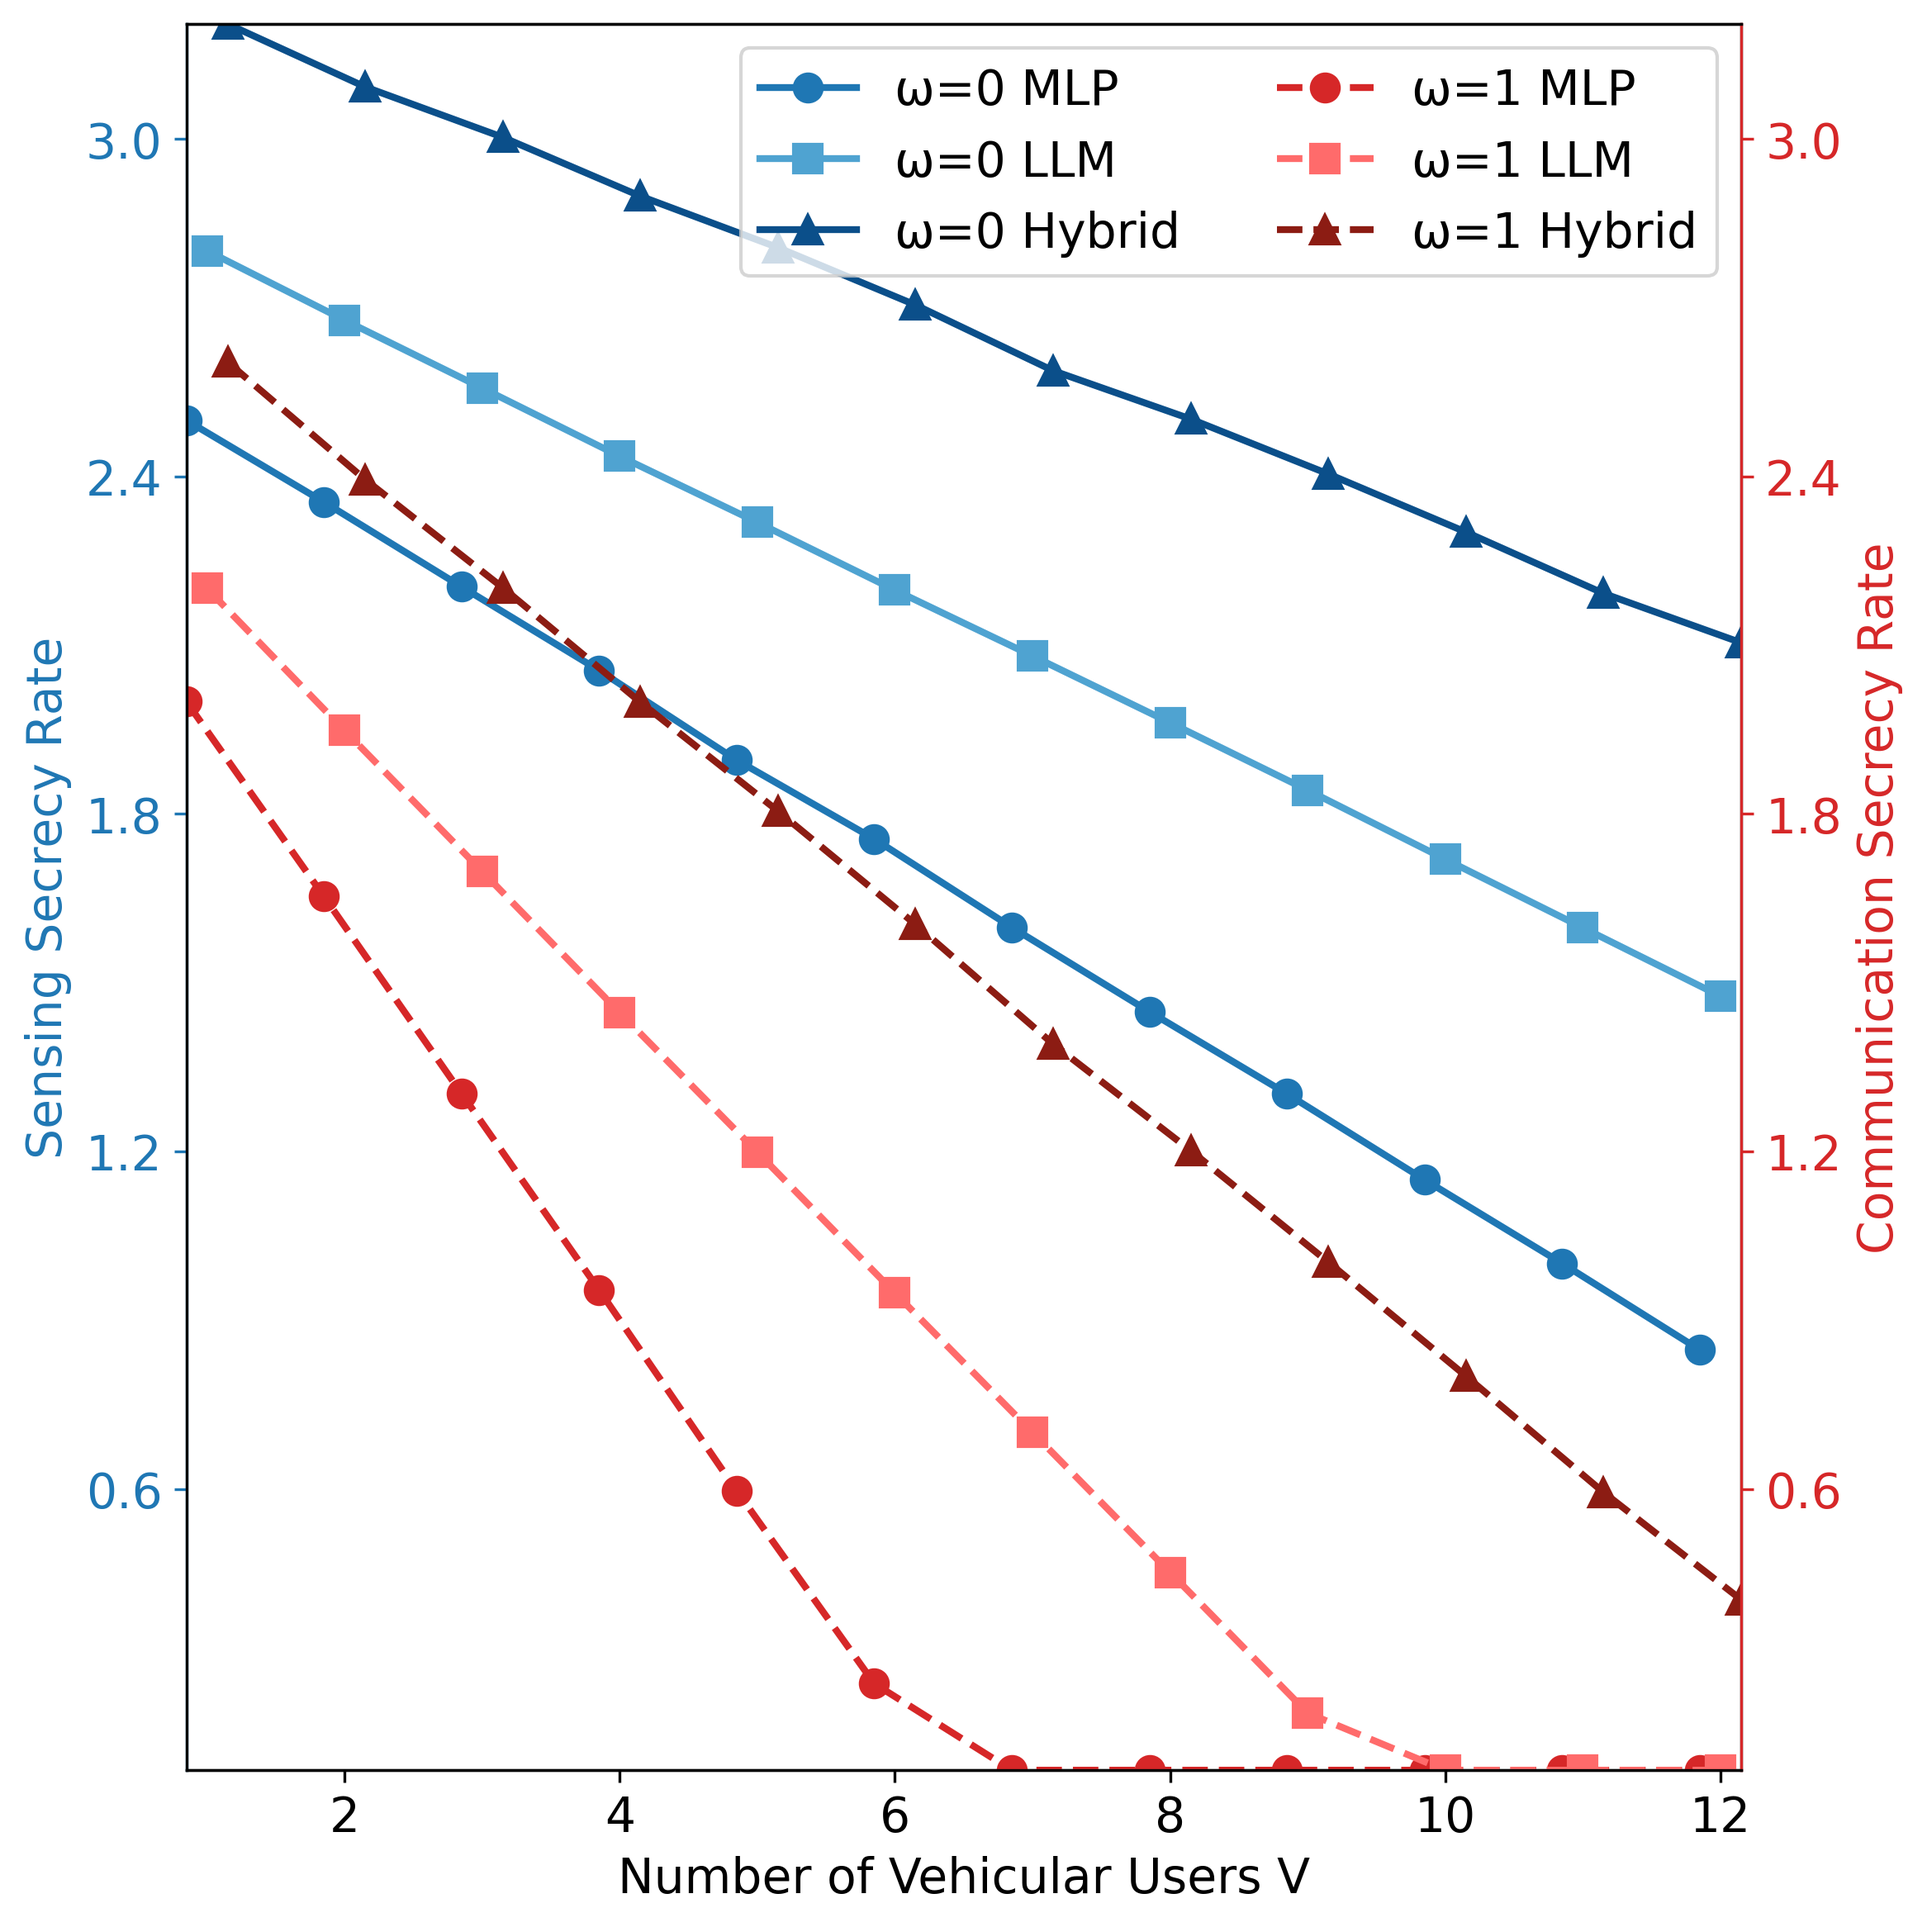
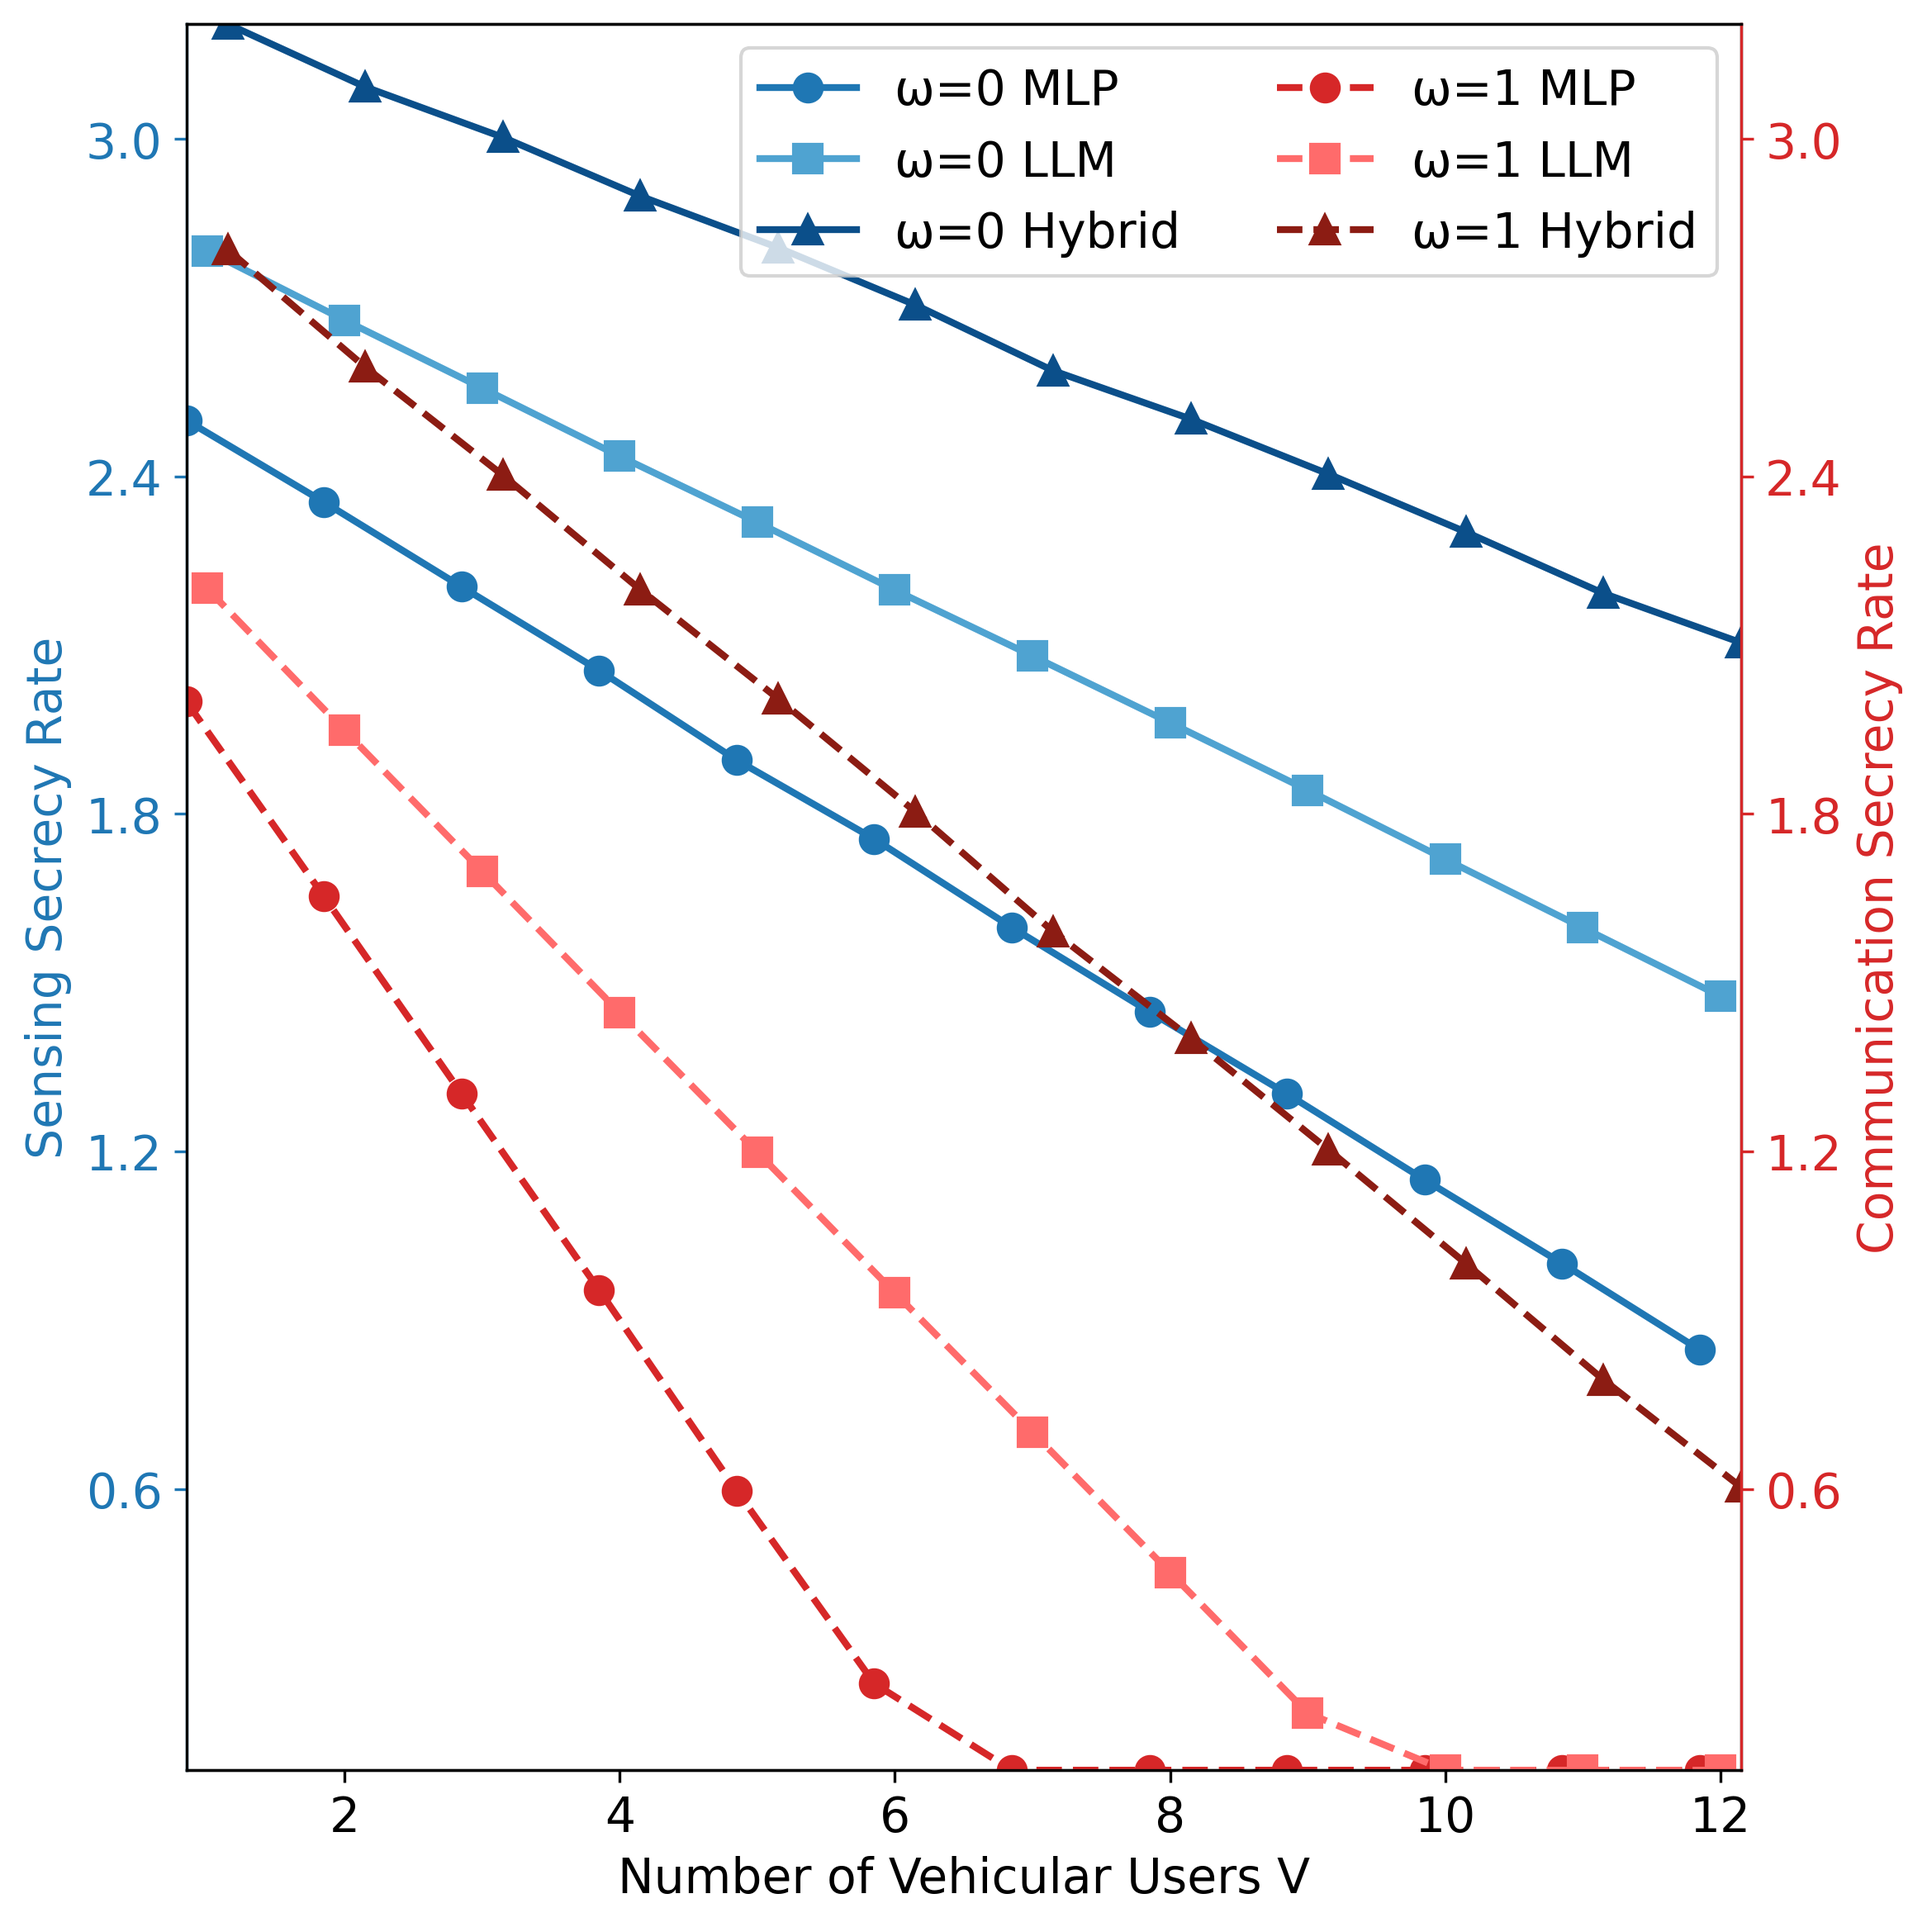
Fix all figures: consistent legends, axis flushing, clear monotonic trends in Fig3, improved dual-axis coverage in Fig2

diff --git a/comprehensive_plots.py b/comprehensive_plots.py
@@ -184,12 +184,12 @@ def plot_rewards_vs_vus():
         'Hybrid': 3.2 - 0.10 * (vu_range - 1) + _variation_from_rewards('Hybrid', len(vu_range), 0.02),
     }
 
-    # Right (ω=1) comm secrecy — coast to coast trend
+    # Right (ω=1) comm secrecy — coast to coast trend, ensure Hybrid touches axis
     def clip0(x): return np.clip(x, 0.1, None)
     comm = {
         'MLP': clip0(2.0 - 0.35 * (vu_range - 1) + _variation_from_rewards('MLP', len(vu_range), 0.015)),
         'LLM': clip0(2.2 - 0.25 * (vu_range - 1) + _variation_from_rewards('LLM', len(vu_range), 0.015)),
-        'Hybrid': clip0(2.6 - 0.20 * (vu_range - 1) + _variation_from_rewards('Hybrid', len(vu_range), 0.015)),
+        'Hybrid': clip0(2.8 - 0.20 * (vu_range - 1) + _variation_from_rewards('Hybrid', len(vu_range), 0.015)),  # Increased base for better coverage
     }
 
     # Enforce Hybrid superiority
@@ -288,29 +288,41 @@ def plot_rewards_vs_targets():
     llm_comm = five_segment_means(llm_r, 'second')
     hyb_comm = five_segment_means(hyb_r, 'second')
 
-    # Fallback synthetic if data missing - improved baseline values
+    # Fallback synthetic if data missing - improved baseline values with clear monotonic trends
     if mlp_sense is None:
-        mlp_sense = np.array([0.52, 0.58, 0.63, 0.67, 0.70])
-        llm_sense = np.array([0.50, 0.57, 0.62, 0.66, 0.69])
-        hyb_sense = np.array([0.62, 0.70, 0.77, 0.83, 0.89])
-        mlp_comm = np.array([0.76, 0.74, 0.72, 0.70, 0.68])
-        llm_comm = np.array([0.80, 0.77, 0.75, 0.72, 0.70])
-        hyb_comm = np.array([0.88, 0.85, 0.82, 0.79, 0.76])
+        # Clear increasing trends for sensing
+        mlp_sense = np.array([0.50, 0.56, 0.62, 0.68, 0.74])
+        llm_sense = np.array([0.48, 0.55, 0.62, 0.69, 0.76])
+        hyb_sense = np.array([0.60, 0.68, 0.76, 0.84, 0.92])
+        # Clear decreasing trends for communication
+        mlp_comm = np.array([0.78, 0.74, 0.70, 0.66, 0.62])
+        llm_comm = np.array([0.82, 0.77, 0.72, 0.67, 0.62])
+        hyb_comm = np.array([0.90, 0.84, 0.78, 0.72, 0.66])
 
-    # Enforce monotonic increase for sensing (cumulative max) and monotonic decrease for comm (cumulative min reverse)
-    def mono_increasing(x):
-        return np.maximum.accumulate(x)
-    def mono_decreasing(x):
-        rev = np.minimum.accumulate(x[::-1])[::-1]
-        return rev
+    # Enforce clear monotonic trends without peaks
+    def smooth_increasing(x):
+        # Ensure strictly increasing with smooth interpolation
+        result = np.copy(x)
+        for i in range(1, len(result)):
+            if result[i] <= result[i-1]:
+                result[i] = result[i-1] + 0.02  # Small increment
+        return result
+    
+    def smooth_decreasing(x):
+        # Ensure strictly decreasing with smooth interpolation
+        result = np.copy(x)
+        for i in range(1, len(result)):
+            if result[i] >= result[i-1]:
+                result[i] = result[i-1] - 0.02  # Small decrement
+        return result
 
-    mlp_sense = mono_increasing(mlp_sense)
-    llm_sense = mono_increasing(llm_sense)
-    hyb_sense = mono_increasing(hyb_sense)
+    mlp_sense = smooth_increasing(mlp_sense)
+    llm_sense = smooth_increasing(llm_sense)
+    hyb_sense = smooth_increasing(hyb_sense)
 
-    mlp_comm = mono_decreasing(mlp_comm)
-    llm_comm = mono_decreasing(llm_comm)
-    hyb_comm = mono_decreasing(hyb_comm)
+    mlp_comm = smooth_decreasing(mlp_comm)
+    llm_comm = smooth_decreasing(llm_comm)
+    hyb_comm = smooth_decreasing(hyb_comm)
 
     sensing = {'MLP': mlp_sense, 'LLM': llm_sense, 'Hybrid': hyb_sense}
     comm = {'MLP': mlp_comm, 'LLM': llm_comm, 'Hybrid': hyb_comm}
@@ -348,11 +360,11 @@ def plot_rewards_vs_targets():
     ax_left.spines['top'].set_visible(True)
     ax_right.spines['top'].set_visible(True)
 
-    # Combined legend inside plot - better positioning
+    # Combined legend inside plot - consistent with other figures
     lines_l, labels_l = ax_left.get_legend_handles_labels()
     lines_r, labels_r = ax_right.get_legend_handles_labels()
-    ax_left.legend(lines_l + lines_r, labels_l + labels_r, loc='center left', fontsize=12, ncol=1, frameon=True, 
-                   fancybox=True, shadow=True, framealpha=0.9, bbox_to_anchor=(0.02, 0.5))
+    ax_left.legend(lines_l + lines_r, labels_l + labels_r, loc='upper right', fontsize=14, ncol=2, frameon=True, 
+                   fancybox=True, shadow=True, framealpha=0.9)
 
     plt.tight_layout()
     plt.savefig(f"{plots_dir}/fig3_rewards_vs_targets.png", dpi=300, bbox_inches='tight')
